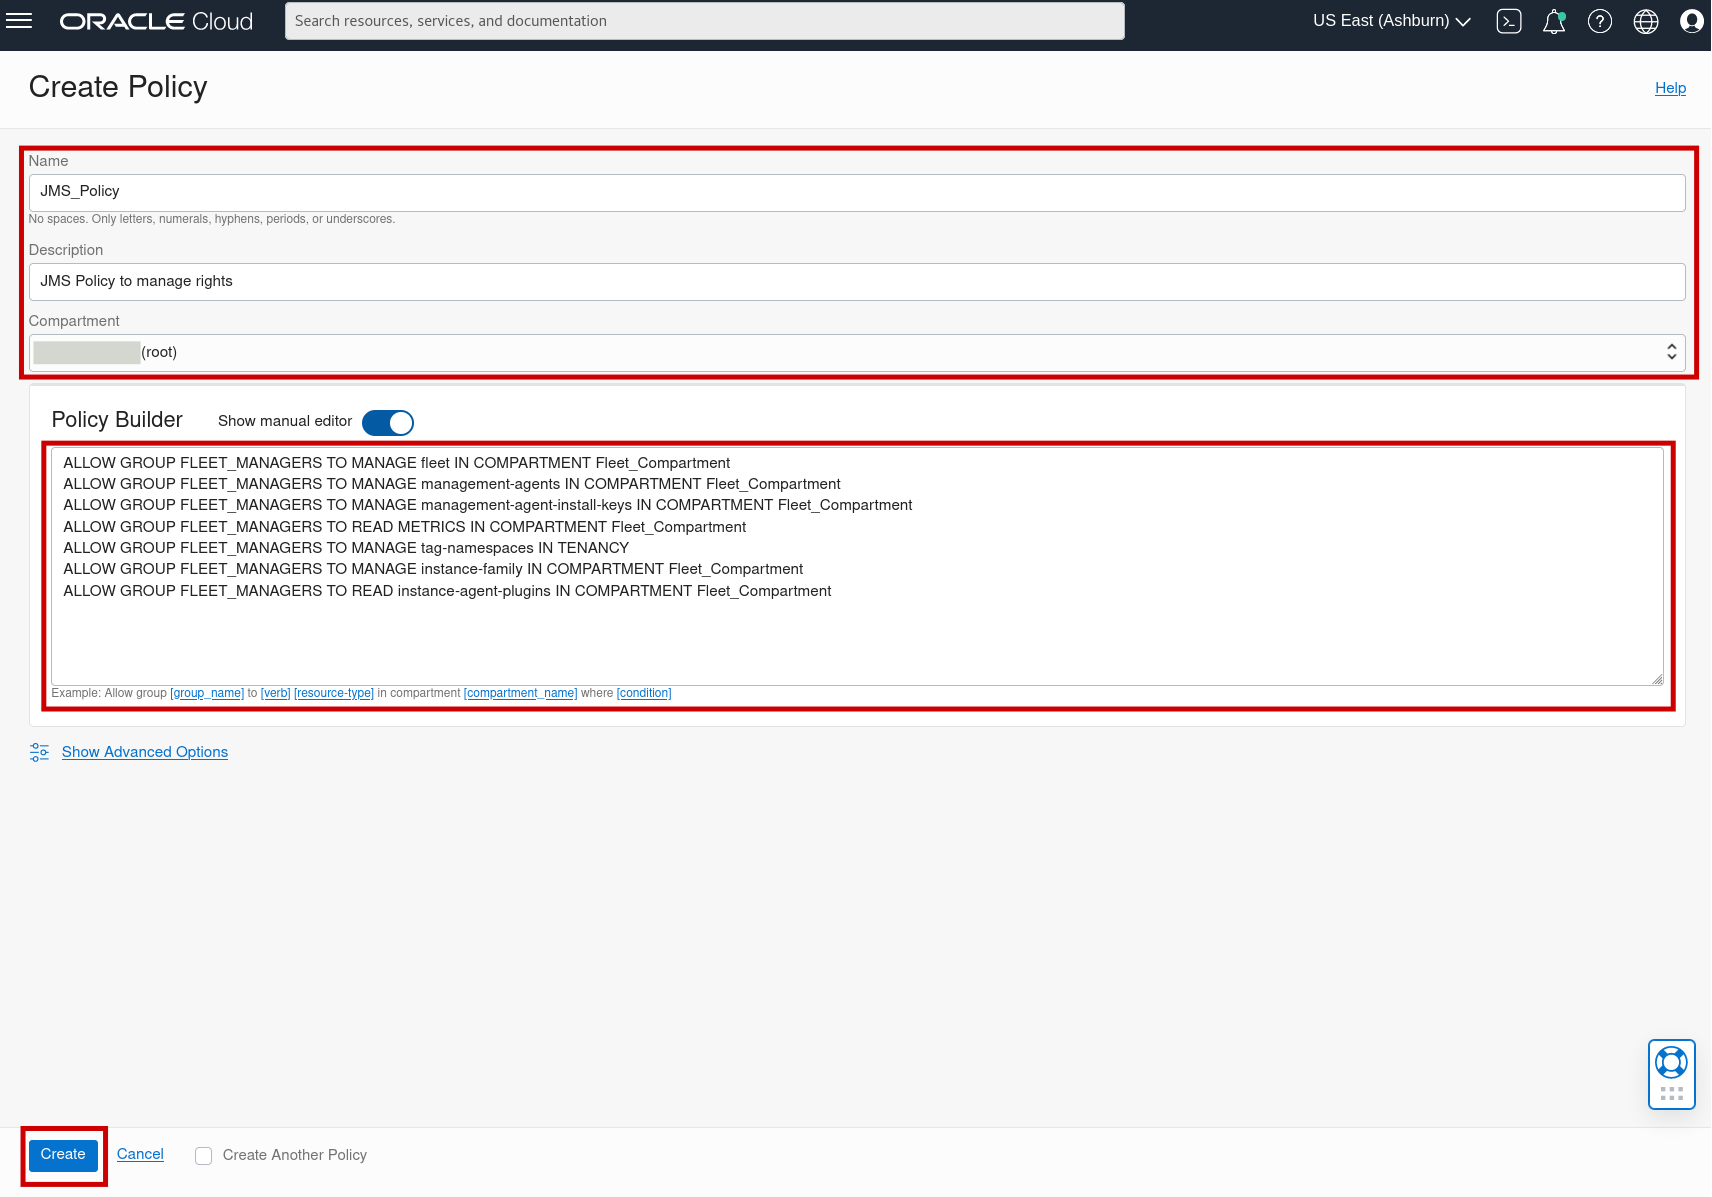
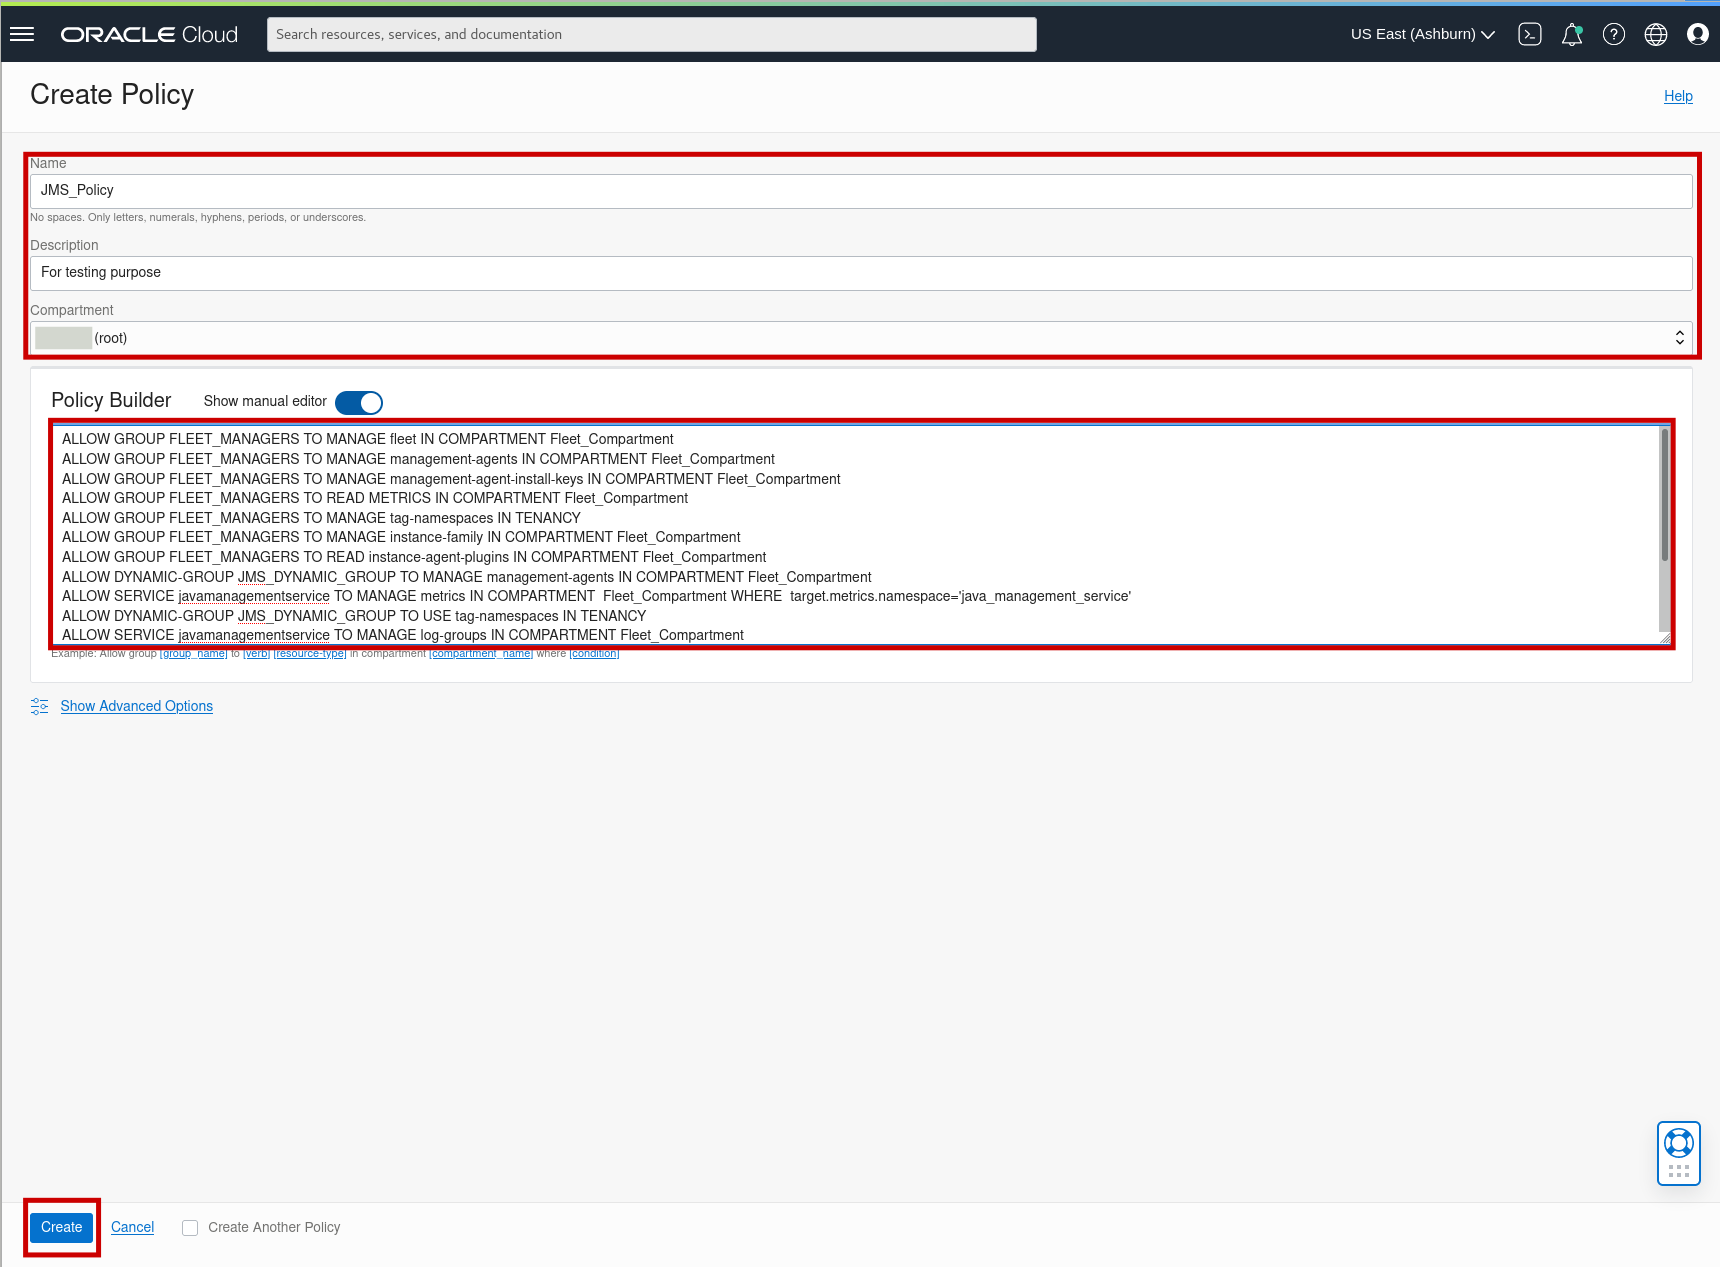
updated steps to create JMS_Policy
As per suggestion from TK and Irvin, we are going to keep all policies in JMS_Policy file rather than different files. It will reduce the confusion for the user and also increase the maintainability of policies.

diff --git a/oci-library/oci-hol/java-management/set-up-oci-for-jms/set-up-oci-for-jms.md b/oci-library/oci-hol/java-management/set-up-oci-for-jms/set-up-oci-for-jms.md
@@ -63,6 +63,12 @@ The Onboarding Wizard helps to create the necessary resources automatically. We 
     * Confirm the creation of new compartment labelled `Fleet_Compartment`.
         ![image of new compartment](/../images/new-compartment.png)
     &nbsp;
+    * In the Oracle Cloud Console, open the navigation menu and click **Governance & Administration**. Under **Governance**, click **Tag Namespaces**.
+        ![image of console navigation to tag namespaces](/../images/console-navigation-tag-namespaces.png)
+    &nbsp;
+    * Confirm the creation of new tag namespace and tag key.
+        ![image of new tag namespace and tag key](/../images/new-tag-namespace.png)
+    &nbsp;
     * In the Oracle Cloud Console, open the navigation menu and click **Identity & Security**. Under **Identity**, click **Groups**.
         ![image of console navigation to groups](/../images/console-navigation-groups.png)
     &nbsp;
@@ -80,12 +86,7 @@ The Onboarding Wizard helps to create the necessary resources automatically. We 
     &nbsp;
     * Confirm the creation of new policy labelled `JMS_Policy`.
         ![image of new jms policy](/../images/new-jms-policy.png)
-    &nbsp;
-    * In the Oracle Cloud Console, open the navigation menu and click **Governance & Administration**. Under **Governance**, click **Tag Namespaces**.
-        ![image of console navigation to tag namespaces](/../images/console-navigation-tag-namespaces.png)
-    &nbsp;
-    * Confirm the creation of new tag namespace and tag key.
-        ![image of new tag namespace and tag key](/../images/new-tag-namespace.png)
+    
 
 ## Task 2: Create OCI Resources manually
 
@@ -172,40 +173,9 @@ Sign in to the Oracle Cloud Console as an administrator using the credentials pr
     For more information, see [Managing Users](https://docs.oracle.com/en-us/iaas/Content/Identity/Tasks/managingusers.htm).
     &nbsp;
 
-6. Create Policies.
 
-    **Policy**: A policy is a document that specifies who can access which Oracle Cloud Infrastructure resources that your company has, and how. A policy simply allows a group to work in certain ways with specific types of resources  in a particular compartment.
 
-    Create policies for the user group to access and manage JMS fleets, management agents, agent install keys, metrics, and tag namespaces.
-    &nbsp;
-    * In the Oracle Cloud Console, open the navigation menu and click **Identity & Security**. Under **Identity**, click **Policies**.
-    &nbsp;
-    * Click **Create Policy**.
-    &nbsp;
-    * In the Create Policy dialog box, enter a name for the policy (for example, `JMS_Policy`), and a description.
-    &nbsp;
-    * Select the root compartment for your tenancy from the drop-down list.
-    &nbsp;
-    * Click **Show manual editor**.
-    &nbsp;
-    * In the text box, enter the following statements:
-    ```
-    <copy>
-        ALLOW GROUP FLEET_MANAGERS TO MANAGE fleet IN COMPARTMENT Fleet_Compartment
-        ALLOW GROUP FLEET_MANAGERS TO MANAGE management-agents IN COMPARTMENT Fleet_Compartment
-        ALLOW GROUP FLEET_MANAGERS TO MANAGE management-agent-install-keys IN COMPARTMENT Fleet_Compartment
-        ALLOW GROUP FLEET_MANAGERS TO READ METRICS IN COMPARTMENT Fleet_Compartment
-        ALLOW GROUP FLEET_MANAGERS TO MANAGE tag-namespaces IN TENANCY
-        ALLOW GROUP FLEET_MANAGERS TO MANAGE instance-family IN COMPARTMENT Fleet_Compartment
-        ALLOW GROUP FLEET_MANAGERS TO READ instance-agent-plugins IN COMPARTMENT Fleet_Compartment
-    </copy>
-    ```
-    ![image of policies create page](/../images/policies-create-example.png)
-    &nbsp;
-    * Click **Create**.
-    &nbsp;
-
-7. Create Dynamic Group.
+6. Create Dynamic Group.
 
     Create a dynamic group of all agents. To interact with the Oracle Cloud Infrastructure service end-points, users must explicitly consent to let the management agents work with JMS.
 
@@ -231,67 +201,51 @@ Sign in to the Oracle Cloud Console as an administrator using the credentials pr
         For more information, see [Managing Dynamic Groups](https://docs.oracle.com/en-us/iaas/Content/Identity/Tasks/managingdynamicgroups.htm).
         &nbsp;
 
-8. Create Policies for JMS Agent.
 
-    These policies allow the management agents to interact with JMS, upload data to OCI Monitoring service, and use tag namespaces.
+7. Create Policies.
 
+    **Policy**: A policy is a document that specifies who can access which Oracle Cloud Infrastructure resources that your company has, and how. A policy simply allows a group to work in certain ways with specific types of resources  in a particular compartment.
+
+    Create policies for the user group to access and manage JMS fleets, management agents, agent install keys, metrics, tag namespaces, logging and LCM operations.
+    &nbsp;
     * In the Oracle Cloud Console, open the navigation menu and click **Identity & Security**. Under **Identity**, click **Policies**.
+    &nbsp;
     * Click **Create Policy**.
-    * In the Create Policy dialog box, enter a name for the policy (for example, `JMS_Agent_Policy`), and a description.
+    &nbsp;
+    * In the Create Policy dialog box, enter a name for the policy (for example, `JMS_Policy`), and a description.
+    &nbsp;
     * Select the root compartment for your tenancy from the drop-down list.
+    &nbsp;
     * Click **Show manual editor**.
+    &nbsp;
     * In the text box, enter the following statements:
-        ```
-        <copy>
+    ```
+    <copy>
+        ALLOW GROUP FLEET_MANAGERS TO MANAGE fleet IN COMPARTMENT Fleet_Compartment
+        ALLOW GROUP FLEET_MANAGERS TO MANAGE management-agents IN COMPARTMENT Fleet_Compartment
+        ALLOW GROUP FLEET_MANAGERS TO MANAGE management-agent-install-keys IN COMPARTMENT Fleet_Compartment
+        ALLOW GROUP FLEET_MANAGERS TO READ METRICS IN COMPARTMENT Fleet_Compartment
+        ALLOW GROUP FLEET_MANAGERS TO MANAGE tag-namespaces IN TENANCY
+        ALLOW GROUP FLEET_MANAGERS TO MANAGE instance-family IN COMPARTMENT Fleet_Compartment
+        ALLOW GROUP FLEET_MANAGERS TO READ instance-agent-plugins IN COMPARTMENT Fleet_Compartment
         ALLOW DYNAMIC-GROUP JMS_DYNAMIC_GROUP TO MANAGE management-agents IN COMPARTMENT Fleet_Compartment  
         ALLOW SERVICE javamanagementservice TO MANAGE metrics IN COMPARTMENT  Fleet_Compartment WHERE  target.metrics.namespace='java_management_service' 
         ALLOW DYNAMIC-GROUP JMS_DYNAMIC_GROUP TO USE tag-namespaces IN TENANCY
-        </copy>
-        ```
-        ![image of create jms policy page](/../images/policies-jms-create-example.png)
-        &nbsp;
-    * Click **Create**.
-
-
-9. Create Policies for JMS Logging.
-
-    These policies allows JMS to interact with OCI Logging service for setting up Log Configuration for fleets in the compartment.
-
-     * In the Oracle Cloud Console, open the navigation menu and click **Identity & Security**. Under **Identity**, click **Policies**.
-    * Click **Create Policy**.
-    * In the Create Policy dialog box, enter a name for the policy (for example, `JMS_Logging_Policy`), and a description.
-    * Select the root compartment for your tenancy from the drop-down list.
-    * Click **Show manual editor**.
-    * In the text box, enter the following statements:
-      ```
-        <copy>
         ALLOW SERVICE javamanagementservice TO MANAGE log-groups IN COMPARTMENT Fleet_Compartment
         ALLOW SERVICE javamanagementservice TO MANAGE log-content IN COMPARTMENT Fleet_Compartment
         ALLOW DYNAMIC-GROUP JMS_DYNAMIC_GROUP TO MANAGE log-content IN COMPARTMENT Fleet_Compartment
-        </copy>
-        ```
-        ![image of create jms policy page](/../images/policies-logging-jms-create-example.png)
-        &nbsp;
-    * Click **Create**.
-
-
-10. Create Policies for Java Runtime Lifecycle Management Operations.
-
-     * In the Oracle Cloud Console, open the navigation menu and click **Identity & Security**. Under **Identity**, click **Policies**.
-    * Click **Create Policy**.
-    * In the Create Policy dialog box, enter a name for the policy (for example, `JMS_LCM_Policy`), and a description.
-    * Select the root compartment for your tenancy from the drop-down list.
-    * Click **Show manual editor**.
-    * In the text box, enter the following statements:
-      ```
-        <copy>
         ALLOW SERVICE javamanagementservice TO READ instances IN tenancy
         ALLOW SERVICE javamanagementservice TO INSPECT instance-agent-plugins IN tenancy
-        </copy>
-        ```
-        ![image of create jms policy page](/../images/policies-lcm-create-example.png)
-        &nbsp;
+    </copy>
+    ```
+    ![image of policies create page](/../images/policies-create-example.png)
+
+
+
+    &nbsp;
     * Click **Create**.
+    &nbsp;
+
 
 You may now **proceed to the next lab**.
 
